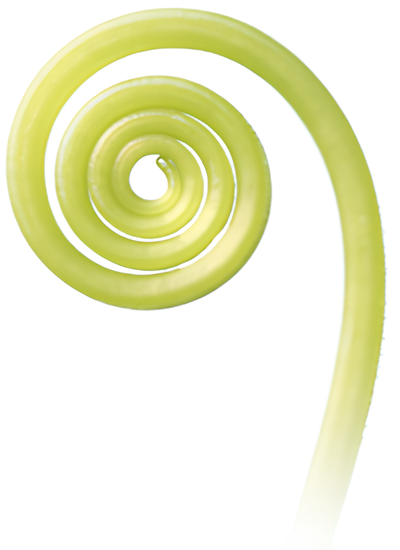
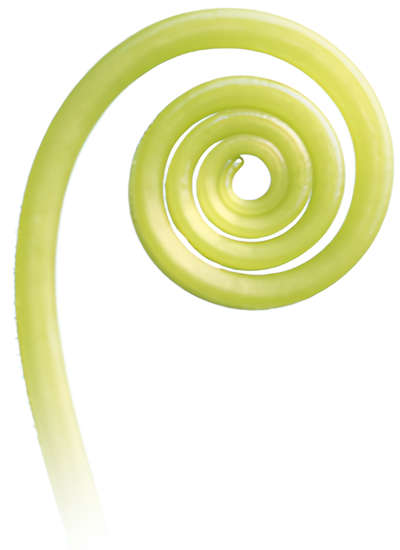
home cms

diff --git a/layouts/_default/index.html b/layouts/_default/index.html
@@ -33,7 +33,7 @@
 </div>
 <div class="flex flex-wrap justify-center sm:py-12 lg:-ml-20">
     <div class="hidden lg:block w-2/6">
-        <img src="{{ $home.haltlos }}" alt="Bild einer Pflanze" class="transform -scale-x-100">
+        <img src="{{ $home.haltlos }}" alt="Bild einer Pflanze">
     </div>
     <section>
         <div class="prose mx-0 lg:ml-14">
@@ -48,12 +48,12 @@
                     {{ partial "icons/icon" (dict
                     "name" "phone"
                     "vendor" "fas"
-                    "className" "h-8 w-8 text-white" )}}
+                    "className" "h-6 w-6 text-white" )}}
                     <span class="whitespace-nowrap">
                         Rückruf anfordern
                     </span>
                 </a>
-                <a href="/anlässe/" class="opacity-60 flex items-center py-6 gap-2">
+                <a href="/anlässe/" class="opacity-60 flex items-center gap-2">
                     <span>mehr zu Anlässen erfahren</span>
                     {{ partial "icons/icon" (dict
                         "name" "chevron-right"

diff --git a/assets/css/styles.css b/assets/css/styles.css
@@ -28,7 +28,7 @@ li p {
 }
 
 a.cta {
-  @apply text-center w-full sm:w-min sm:rounded-lg py-3 px-5 sm:shadow-md bg-secondary;
+  @apply text-center w-full sm:w-min sm:rounded-lg py-4 px-6 sm:shadow-md bg-secondary;
   @apply text-lg font-semibold uppercase text-white no-underline;
   @apply transition-all;
   @apply hover:shadow-lg hover:shadow-primary/40;
